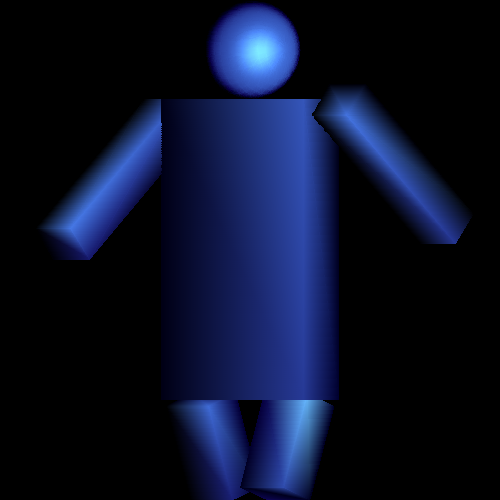
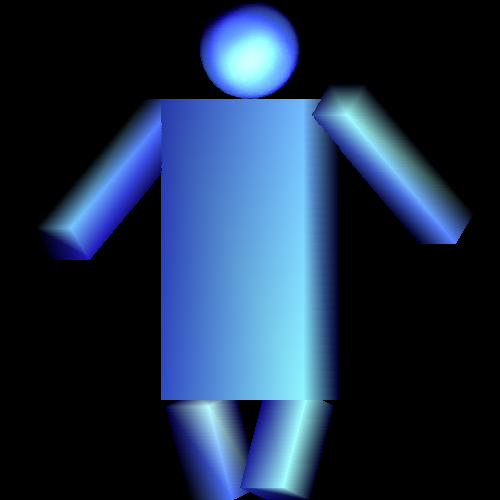
MULTIPLE LIGHT SOURCES WORK

diff --git a/draw.c b/draw.c
@@ -406,9 +406,9 @@ void draw_polygons( struct matrix * polygons, screen s, color c, struct matrix* 
 			cB.red = 0;
 			cB.blue = 0;
 			cB.green = 0;
-			printf("BEGIN\n");
+			//printf("BEGIN\n");
 			for(k = 0; k < t_vals->lastcol; k++){
-			  printf("TOP\n");
+			  //printf("TOP\n");
 			  cT.red+=t_vals->m[0][k];
 			  cT.green+=t_vals->m[1][k];
 			  cT.blue+=t_vals->m[2][k];
@@ -423,7 +423,7 @@ void draw_polygons( struct matrix * polygons, screen s, color c, struct matrix* 
 			  cB.green+=b_vals->m[1][k];
 			  cB.blue+=b_vals->m[2][k];
 			}
-			printf("END\n");
+			//xprintf("END\n");
 			cT.red = cT.red>255?255:cT.red;
 			cT.red = cT.red<0?0:cT.red;
 			cT.green = cT.green>255?255:cT.green;
